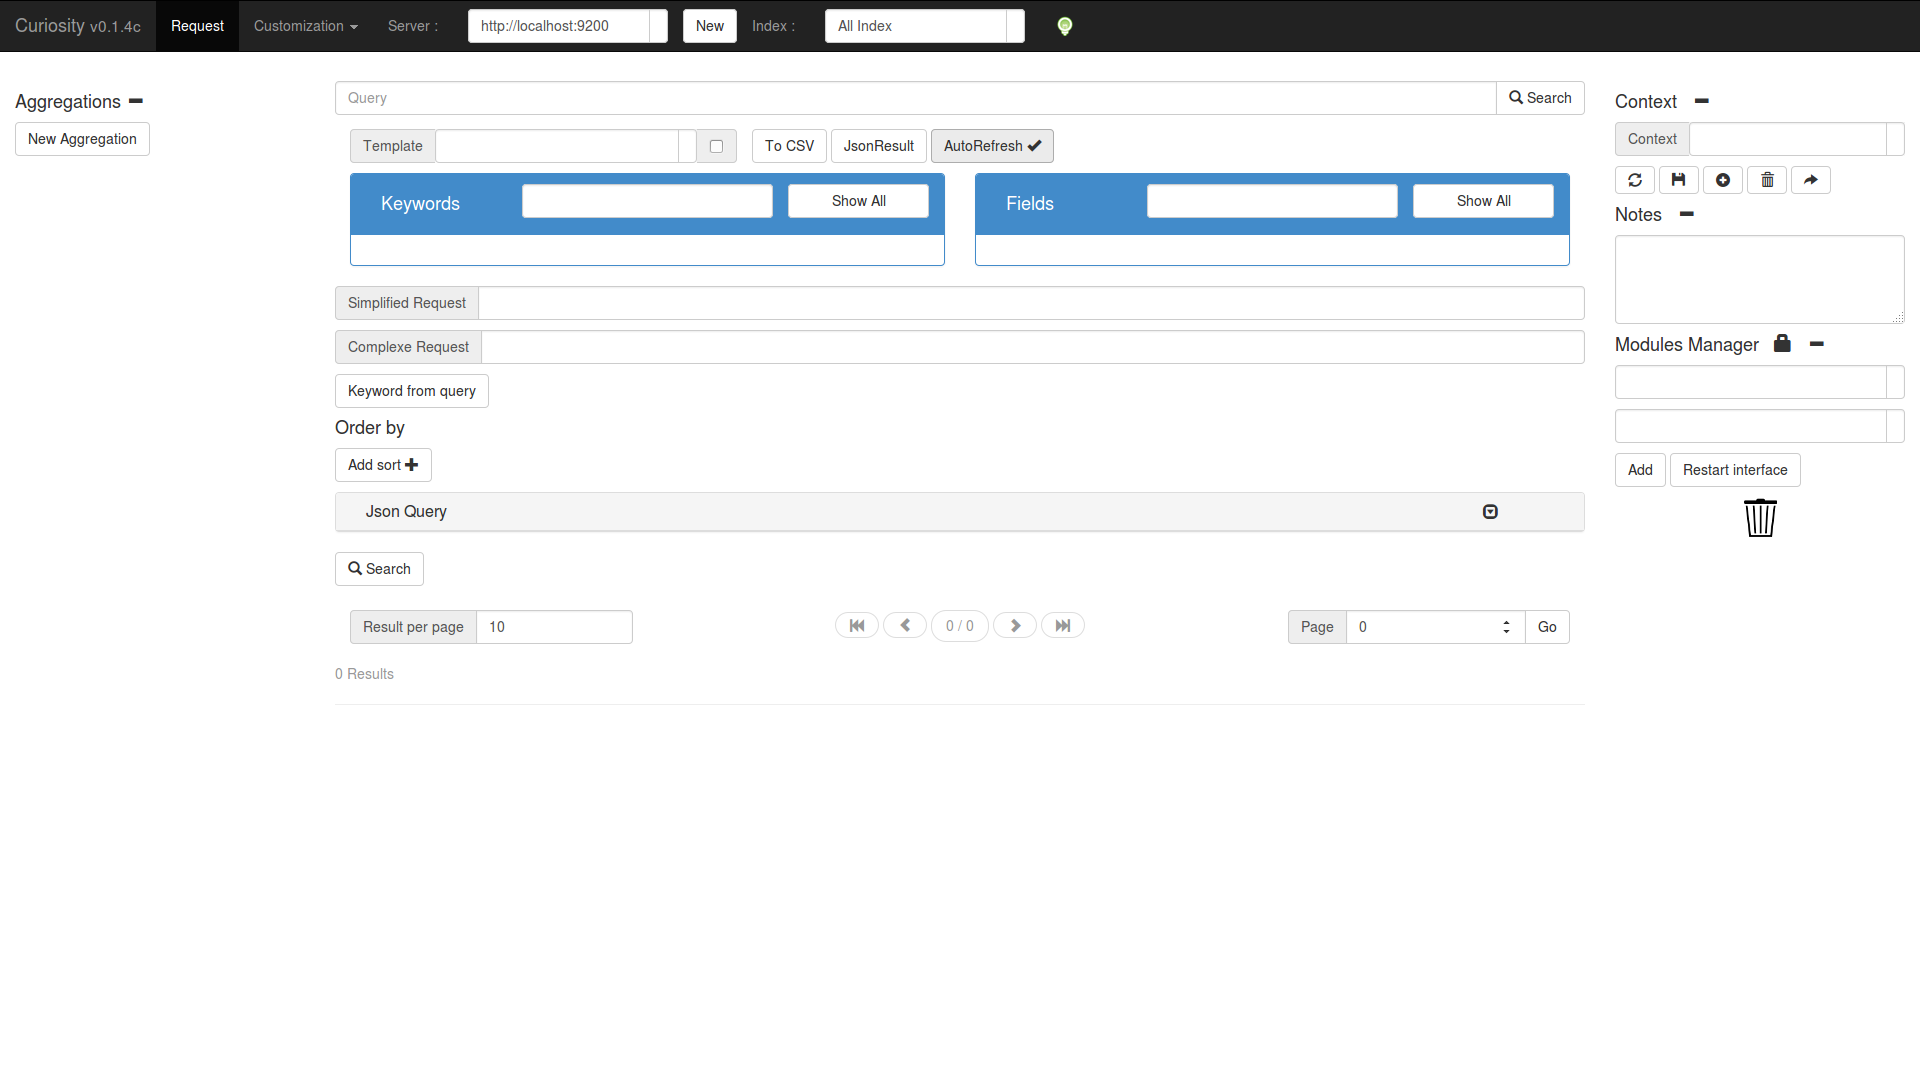
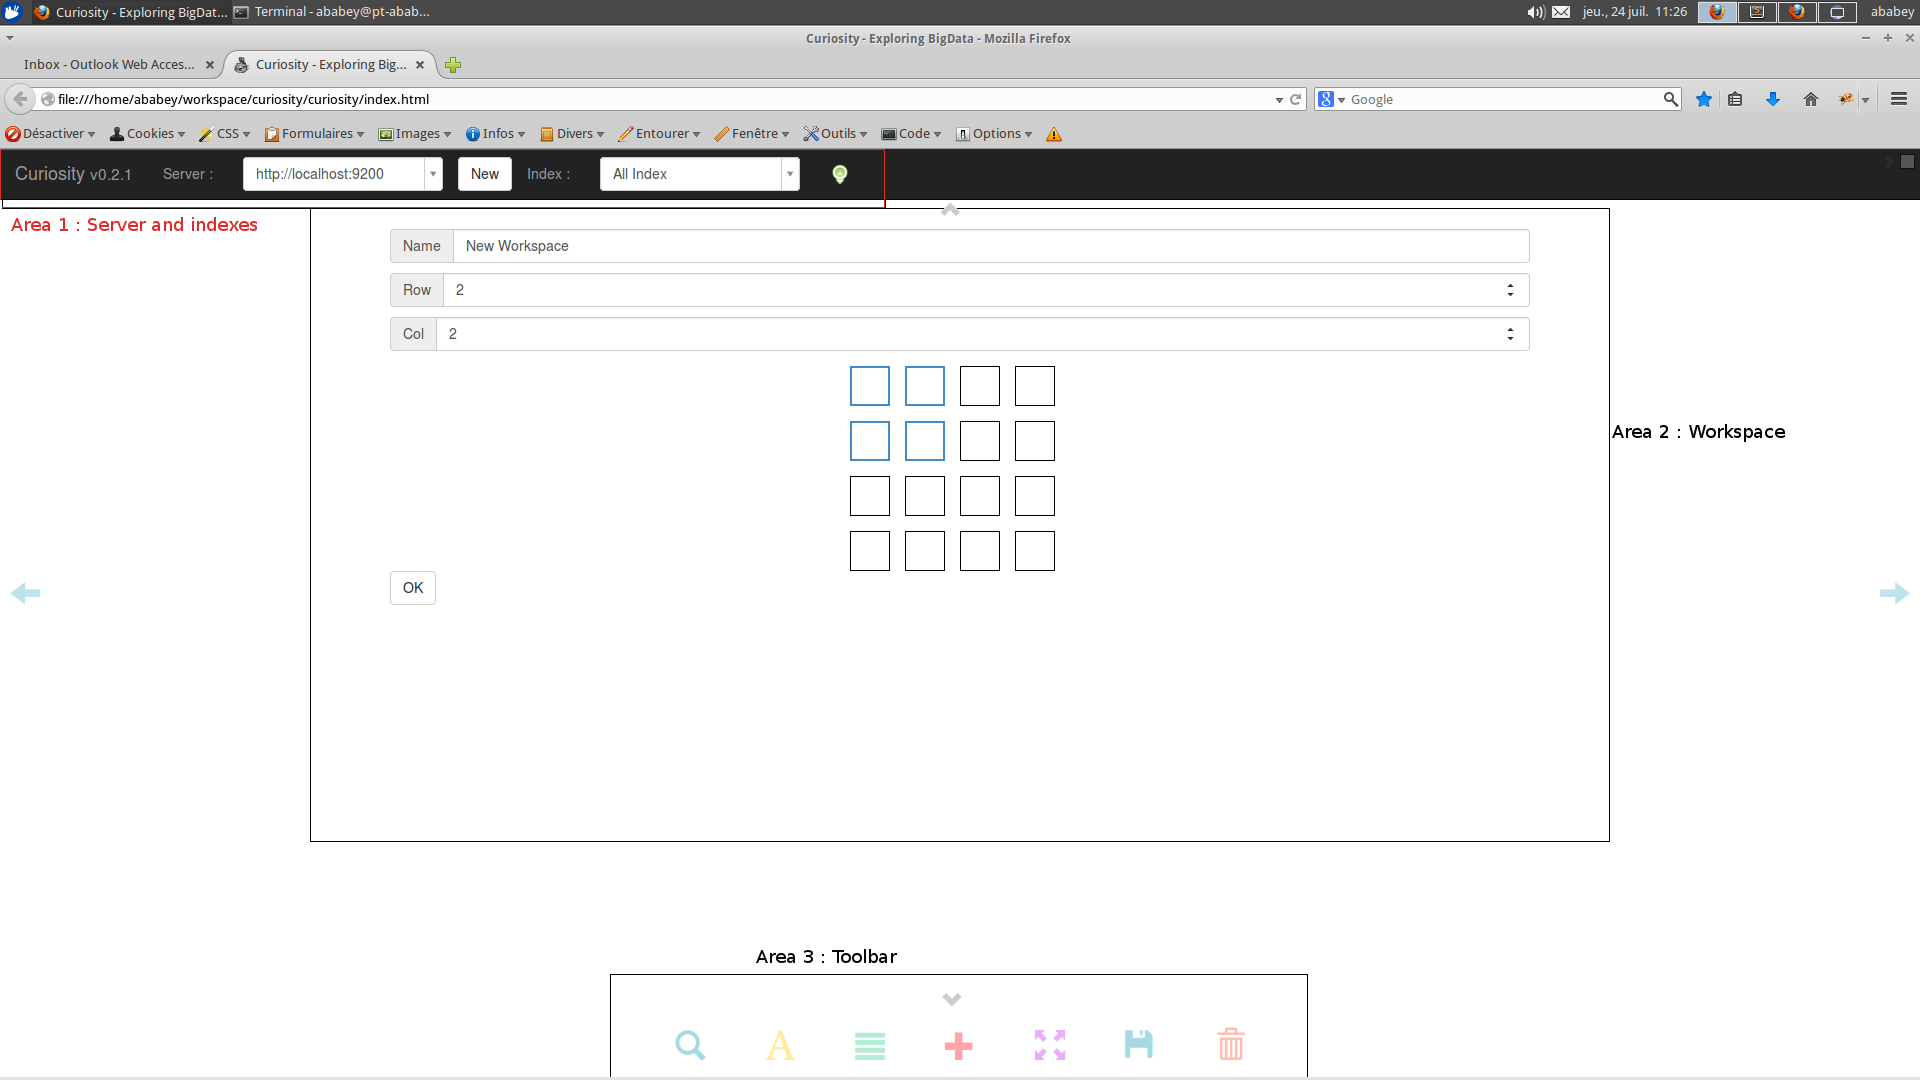
Update getting started and pictures

diff --git a/partials/steps.html b/partials/steps.html
@@ -1,0 +1,144 @@
+<h1>First step</h1>
+
+<h3>Main page overview</h3>
+
+<div class="col-sm-12">
+	<img src="img/curiosity-default.png" alt="Screenshot of Curiosity's current interface" title="Curiosity's current interface">
+</div>
+
+<div class="spacer"></div>
+
+<p>
+	As you can see on the previous screenshot, curiosity is divided in three main area :
+	<ul>
+		<li>
+			First area allows you to add/choose an elasticsearch server and select an alias or index to work on.
+		</li>
+		<li>
+			The second area is where you will work, you can create and personalize your layout, add modules, navigate throught workspaces ...
+		</li>
+		<li>
+			And then the last area is the toolbar, that give you the possibility to save your work, launch query, open few menu ... 
+		</li>
+	</ul>
+
+	Let's create our first workspace and launch some queries.
+</p>
+
+<h3>
+	Step 1 : Select your server and index 
+</h3>
+<div class="margin-top">
+	<div class="col-sm-5">
+
+		<p >
+			On the first area, there are two dropdown list(1) : 
+		</p>
+		<ul>
+			<li>
+				The first one allows you to chose a server. If you use curiosity for the first time, normally there is only one server in this list. If you want to add a new server, press "New" button, fill the input that just appeared, then click on connect. If you curiosity was able to reach the server "connect" button stay green (2) and your server is add to the server list, otherwise the button goes red (3).
+			</li>	
+			<li> 
+				The second list contains all current server's indexes and alias.    
+			</li>
+		</ul>
+	
+	</div>
+	<div class="col-sm-7">
+		<img src="img/curiosity-server-selector.png" alt="Screenshot of Curiosity's dropdown list" title="Curiosity's server and index selector">
+	</div>
+
+	<div class="spacer"></div>
+
+</div>
+
+<p class="margin-top">
+	Choose a server and an index then let's custmize our layout
+</p>
+
+<div class="alert alert-info" role="alert">
+	The green/red light represents the curiosity's status. If it goes red, an error has occurred. If you want more information about it, check the developper console (a curiosity's console will soon be added).
+</div>
+
+<h3>
+	Step 2 : Configure your layout
+</h3>
+
+<p>
+	Now you choosed your server and index, it's time to create your first workspace and cutsomize its layout.
+</p>
+<div>
+	<div class="col-sm-7">
+		<img src="img/curiosity-ws-creator.png" alt="Screenshot of Curiosity's workspace configuration screen" title="Curiosity's workspace customization screen">
+	</div>
+	<div class="col-sm-5">
+		<p>
+			First step, give a name to your workspace (1) (not required), then you have to choose the number of line and columns of your workspace. You can do this by filling coresponding input (2,3) or through the square (4) by clicking on the layout you want. Then click on "ok" (4).   
+		</p>
+	</div>
+	<div class="spacer"></div>
+</div>
+<p>
+	Your layout is created, let's add some modules.
+</p>
+
+<h3>
+	Step 3 : Add some modules 
+</h3>
+
+<p>
+	Curisotisy works with modules, each module has a different goals, there is a module to display result, an other to built a query, make aggregation... Each workspace is divide in cards that are the representation of your layout. In each card you can add as many module as you want.
+</p>
+
+<div>
+	<div class="col-sm-5">
+		<p>When you want to add a module to a card :</p>
+		<ul>
+			<li>Click on the well on the top right corner of the card (1).</li>	
+			<li>a window will appear, select a module in the module list (2), click on "add module", the the module will be added in the card's temporary module list (3).For this example add the "Query" and "result" modules to your card.</li>
+			<li>
+				Then press "ok"(6) to add your module in your card.
+			</li>
+		</ul>
+		<p>
+			If you want to add some still to your card fill the Card's style (5) input with css styles.
+		</p>
+	</div>
+
+	
+	<div class="col-sm-7">
+		<img src="img/curiosity-add-modules.png" alt="Screenshot of Curiosity's workspace configuration screen" title="Curiosity's workspace customization screen">
+	</div>
+
+
+	<div class="spacer"></div>
+</div>
+
+<h3>
+	Step 4 : Launch a query
+</h3>
+
+<p>Curiosity use elasticsearch's <a href="www.elasticsearch.org/guide/en/elasticsearch/reference/current/query-dsl-query-string-query.html" title="Query string query documentation">query string query syntax</a>, so you can easily create complex queries. Click in the query form (first form in page center), enter your query then press "enter" or click on search button. If your request is syntaxly correct, the status light remains green and the result will appear at the bottom center of the page.
+</p>
+<p>
+	Here are some basics for building a query : 
+	<ul>
+		<li>
+			If you want to search a string on a specific field : 
+			<pre style="background:rgba(238,238,238,0.92);color:#000">the<span style="color:#36c;font-style:italic">.path</span><span style="color:#36c;font-style:italic">.to</span><span style="color:#36c;font-style:italic">.my</span><span style="color:#36c;font-style:italic">.fields</span>:"string you search"
+			</pre>					
+		</li>
+		<li>
+			Getting docs that matchs a value range for a specific field :
+			<pre style="background:rgba(238,238,238,0.92);color:#000">the<span style="color:#36c;font-style:italic">.path</span><span style="color:#36c;font-style:italic">.to</span><span style="color:#36c;font-style:italic">.my</span><span style="color:#36c;font-style:italic">.fields</span>:[Start TO End]
+			</pre>
+		</li>
+	</ul>
+</p>
+
+<div class="link-bottom">
+	<a href="#/Keywords-and-Advanced-Query" title="Documentation about Keywords and Advanced Query in Curiosity">
+		Keywords and Advanced Query 
+		<span class="glyphicon glyphicon-share-alt"></span>
+	</a>
+</div>
